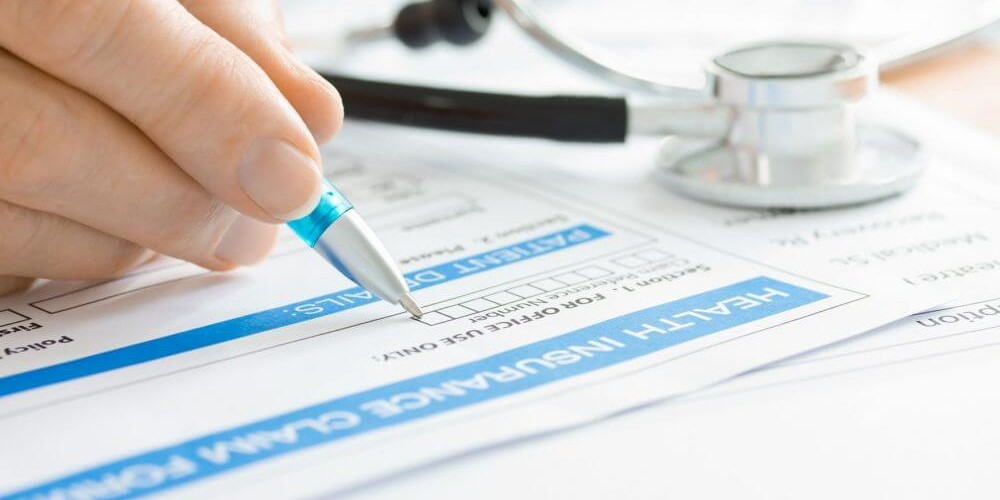
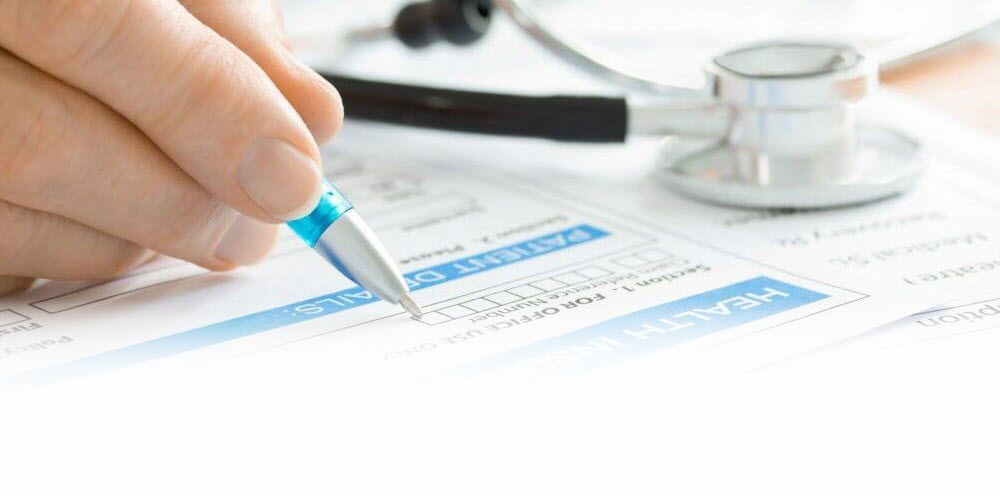
* Changed homepage image opacity to accentuate image titles * Added responsiveness attribute to POC results tables * Created info cards on home page for Blazor CRUD features * Added sticky footer

diff --git a/BlazorCrud.Client/wwwroot/css/site.css b/BlazorCrud.Client/wwwroot/css/site.css
@@ -26,6 +26,25 @@ body {
 
 }
 
+/* Sticky footer styles
+-------------------------------------------------- */
+html {
+    position: relative;
+    min-height: 100%;
+}
+
+body {
+    margin-bottom: 60px; /* Margin bottom by footer height */
+}
+.footer {
+    position: absolute;
+    bottom: 0;
+    width: 100%;
+    height: 60px; /* Set the fixed height of the footer here */
+    line-height: 60px; /* Vertically center the text there */
+    background-color: #f5f5f5;
+}
+
 @keyframes spin {
     0% {
         transform: rotate(0deg);
